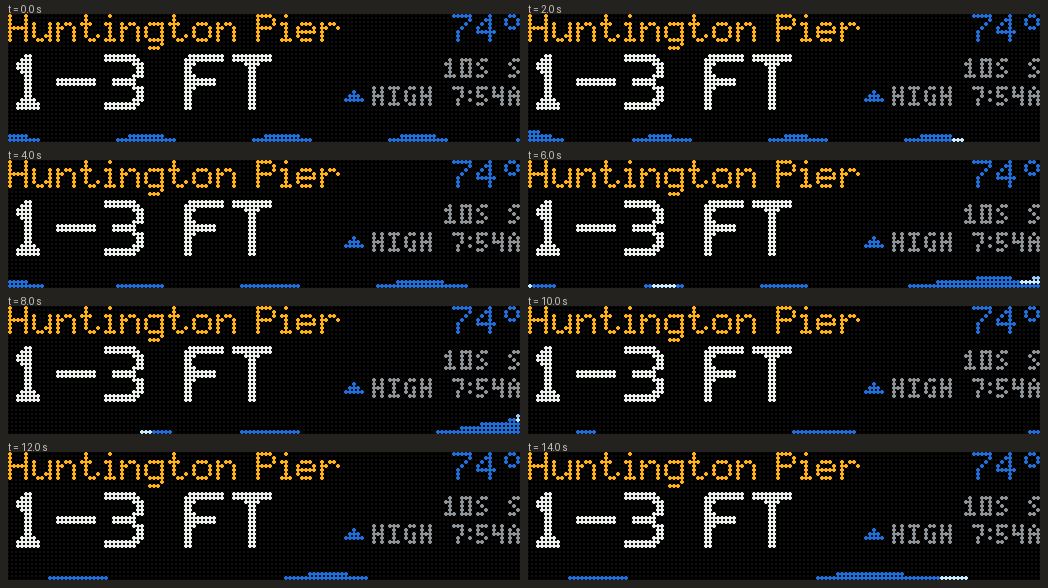
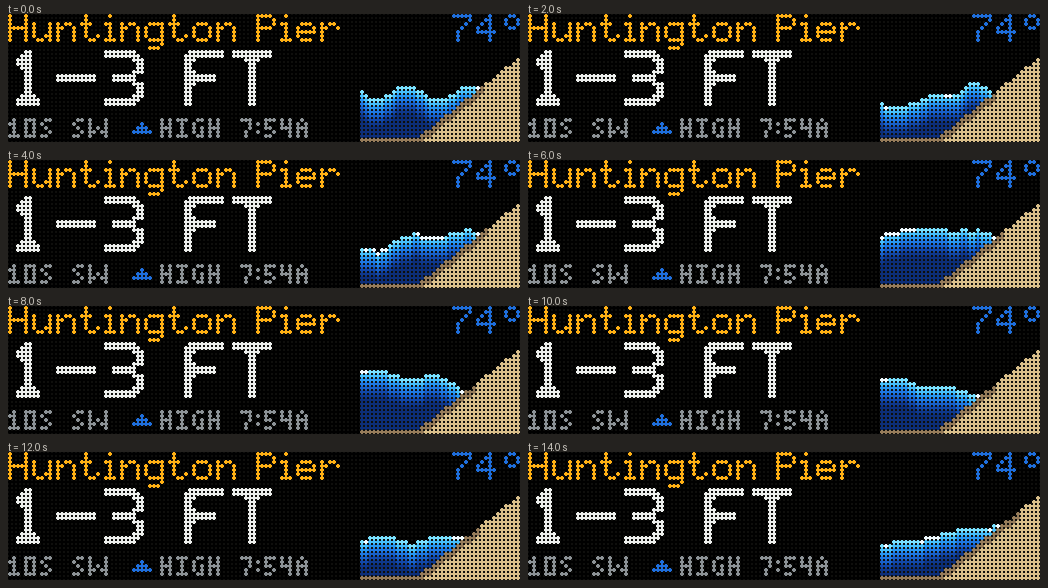
Surf: readable text on the left and a slice of real sea running up a beach on the right, the tide moving the waterline

diff --git a/plugins/surf/plugin.py b/plugins/surf/plugin.py
@@ -30,6 +30,14 @@ SPOTS = {
     "pipeline": ("Pipeline", 21.668, -158.055, "1612340"),
 }
 COMPASS = ("N", "NE", "E", "SE", "S", "SW", "W", "NW")
+# The picture on the right: a slice of sea meeting a beach. Waves come in from the left,
+# run up the sand, and the tide moves the waterline up and down the slope.
+WINDOW_X, WINDOW_TOP = 88, 8
+WINDOW_W, WINDOW_H = 128 - WINDOW_X, 32 - WINDOW_TOP
+SLOPE_START, SLOPE = 14, .8           # where the sand starts to rise, and how fast (rows per column)
+WATER = ((120, 224, 255), (70, 190, 250), (40, 150, 240), (30, 120, 225), (24, 96, 200), (18, 72, 168),
+         (14, 56, 140), (12, 46, 120))            # surface to deep
+SAND, WET_SAND, FOAM_WHITE = (216, 190, 138), (150, 124, 90), (240, 250, 255)
 WHITE, GREY, AMBER, SEA, FOAM = (236, 238, 236), (140, 146, 150), (255, 176, 20), (30, 110, 220), (200, 235, 255)
 
 
@@ -108,10 +116,9 @@ class Water:
         self.speed = [0.0] * width
         self.clock = 0.0
 
-    def prime(self, size):
+    def prime(self, size, wavelength=34.0):
         """Start with a sea already running. Made from cold the panel spends the
         first seconds of every visit flat while the first wave crosses it."""
-        wavelength = 34.0
         for x in range(len(self.height)):
             phase = (x - len(self.height)) / wavelength * math.tau
             self.height[x] = math.sin(phase) * size
@@ -160,7 +167,7 @@ class Report(Module):
     name = "surf"
 
     def __init__(self):
-        self.water = Water()
+        self.water = Water(WINDOW_W)
         self.last = None
 
     def refresh_interval(self, context):
@@ -183,33 +190,67 @@ class Report(Module):
         dt = 1 / 30 if first or not 0 < t - self.last < .5 else t - self.last
         self.last = t
         if first:
-            self.water.prime(min(6.0, 1.5 + (surf.get("height") or 1) * .8) / 2)
+            self.water.prime(self._size(surf) / 2, 16.0)
         level = self._level(surf.get("tide"))
-        self._wave(frame, surf, dt, level)
+        self._sea(frame, surf, dt, level)
+        # Everything to read is on the left, on black, clear of the water.
         draw_text(frame, surf["spot"], 0, 0, AMBER, mixed=True)
         if surf.get("water") is not None:
             water = f"{round(surf['water'])}°"
             draw_text(frame, water, 128 - text_width(water), 0, SEA)
         size = face(surf["height"])
-        draw_text(frame, size, 0, 10, WHITE, 2, True)
-        x = text_width(size, 2) + 5
-        details = []
+        room = WINDOW_X - 3
+        scale = 2 if text_width(size, 2) <= room else 1
+        draw_text(frame, size, 0, 9 if scale == 2 else 12, WHITE, scale, scale == 2)
+        # One line under it: the swell, then the tide with an arrow for which way it is going.
+        x = 0
         if surf.get("period"):
             direction = COMPASS[round((surf.get("direction") or 0) / 45) % 8]
-            details.append(f"{round(surf['period'])}S {direction}")
+            swell = f"{round(surf['period'])}S {direction}"
+            draw_tiny(frame, swell, x, 26, GREY)
+            x += tiny_width(swell) + 6
         tide = surf.get("tide")
         if tide:
             when = datetime.strptime(tide["time"], "%Y-%m-%d %H:%M")
             clock = when.strftime("%I:%M%p").lstrip("0").replace("AM", "A").replace("PM", "P")
-            details.append(f"{'HIGH' if tide['high'] else 'LOW'} {clock}")
-        for index, line in enumerate(details):
-            if x + tiny_width(line) <= 128:
-                draw_tiny(frame, line, 128 - tiny_width(line), 11 + index * 7, GREY)
-        # An arrow beside the tide line: coming in, or going out.
-        if tide and len(details) > 1 and x + tiny_width(details[-1]) + 7 <= 128:
-            triangle(frame, 128 - tiny_width(details[-1]) - 7, 12 + (len(details) - 1) * 7,
-                     bool(tide["high"]), SEA)
+            label = f"{'HIGH' if tide['high'] else 'LOW'} {clock}"
+            if x + 7 + tiny_width(label) <= room:
+                triangle(frame, x, 27, bool(tide["high"]), SEA)
+                draw_tiny(frame, label, x + 7, 26, GREY)
         return frame
+
+    @staticmethod
+    def _size(surf):
+        """How tall the waves are drawn, in rows: sized by the real surf."""
+        return min(5.0, 1.6 + (surf.get("height") or 1) * .7)
+
+    def _sea(self, frame, surf, dt, level=None):
+        """A slice of the real thing: swell running in from the left, the beach rising
+        on the right, and the waterline sitting where the real tide has put it."""
+        size = self._size(surf)
+        period = max(5.0, min(20.0, surf.get("period") or 10))
+        water = self.water
+        water.step(dt, period, size)
+        # Low tide leaves the water low and the beach wide; high tide floods up the slope.
+        surface = 16.5 - ((.5 if level is None else level) - .5) * 6
+        top = frame.load()
+        for column in range(WINDOW_W):
+            x = WINDOW_X + column
+            sand = 31 - max(0.0, (column - SLOPE_START) * SLOPE)          # the beach's top edge here
+            wave = surface - water.height[WINDOW_W - 1 - column]           # the water's top edge here
+            water_row, sand_row = round(wave), round(sand)
+            for y in range(max(WINDOW_TOP, min(water_row, sand_row)), 32):
+                if y >= sand_row:
+                    # Sand the water has just left is wet, and darker for it.
+                    top[x, y] = WET_SAND if y - sand_row < 2 and water_row < sand_row + 2 else SAND
+                else:
+                    depth = y - water_row
+                    top[x, y] = WATER[min(len(WATER) - 1, depth)]
+            if water_row < sand_row and water_row >= WINDOW_TOP:
+                # Foam on the crest, and a white edge where the water meets the sand.
+                climb = -water.speed[WINDOW_W - 1 - column]
+                if climb > size * 1.4 or sand_row - water_row <= 1:
+                    top[x, water_row] = FOAM_WHITE
 
     @staticmethod
     def _level(tide, now=None):
@@ -230,28 +271,6 @@ class Report(Module):
             return None
         done = min(1.0, max(0.0, 1 - (turn - now).total_seconds() / swing))
         return done if tide["high"] else 1 - done
-
-    def _wave(self, frame, surf, dt, level=None):
-        """Real water: springs pushed by the real swell, sitting at the real tide."""
-        size = min(6.0, 1.5 + (surf.get("height") or 1) * .8)
-        period = max(5.0, min(20.0, surf.get("period") or 10))
-        water = self.water
-        water.step(dt, period, size)
-        rise = 0 if level is None else (level - .5) * 5
-        draw = ImageDraw.Draw(frame)
-        base = 31 - size / 2 - rise
-        for x in range(128):
-            top = base - water.height[x]
-            row = round(top)
-            if row > 31:
-                continue
-            draw.line((x, max(0, row), x, 31), fill=SEA)
-            # Foam where the water is climbing fastest: the face of a breaking wave.
-            climb = -water.speed[x]
-            if climb > size * 1.5:
-                draw.point((x, max(0, row)), fill=FOAM)
-                if climb > size * 3 and row > 0:
-                    draw.point((x, row - 1), fill=(150, 200, 250))
 
 
 plugin = Plugin(
